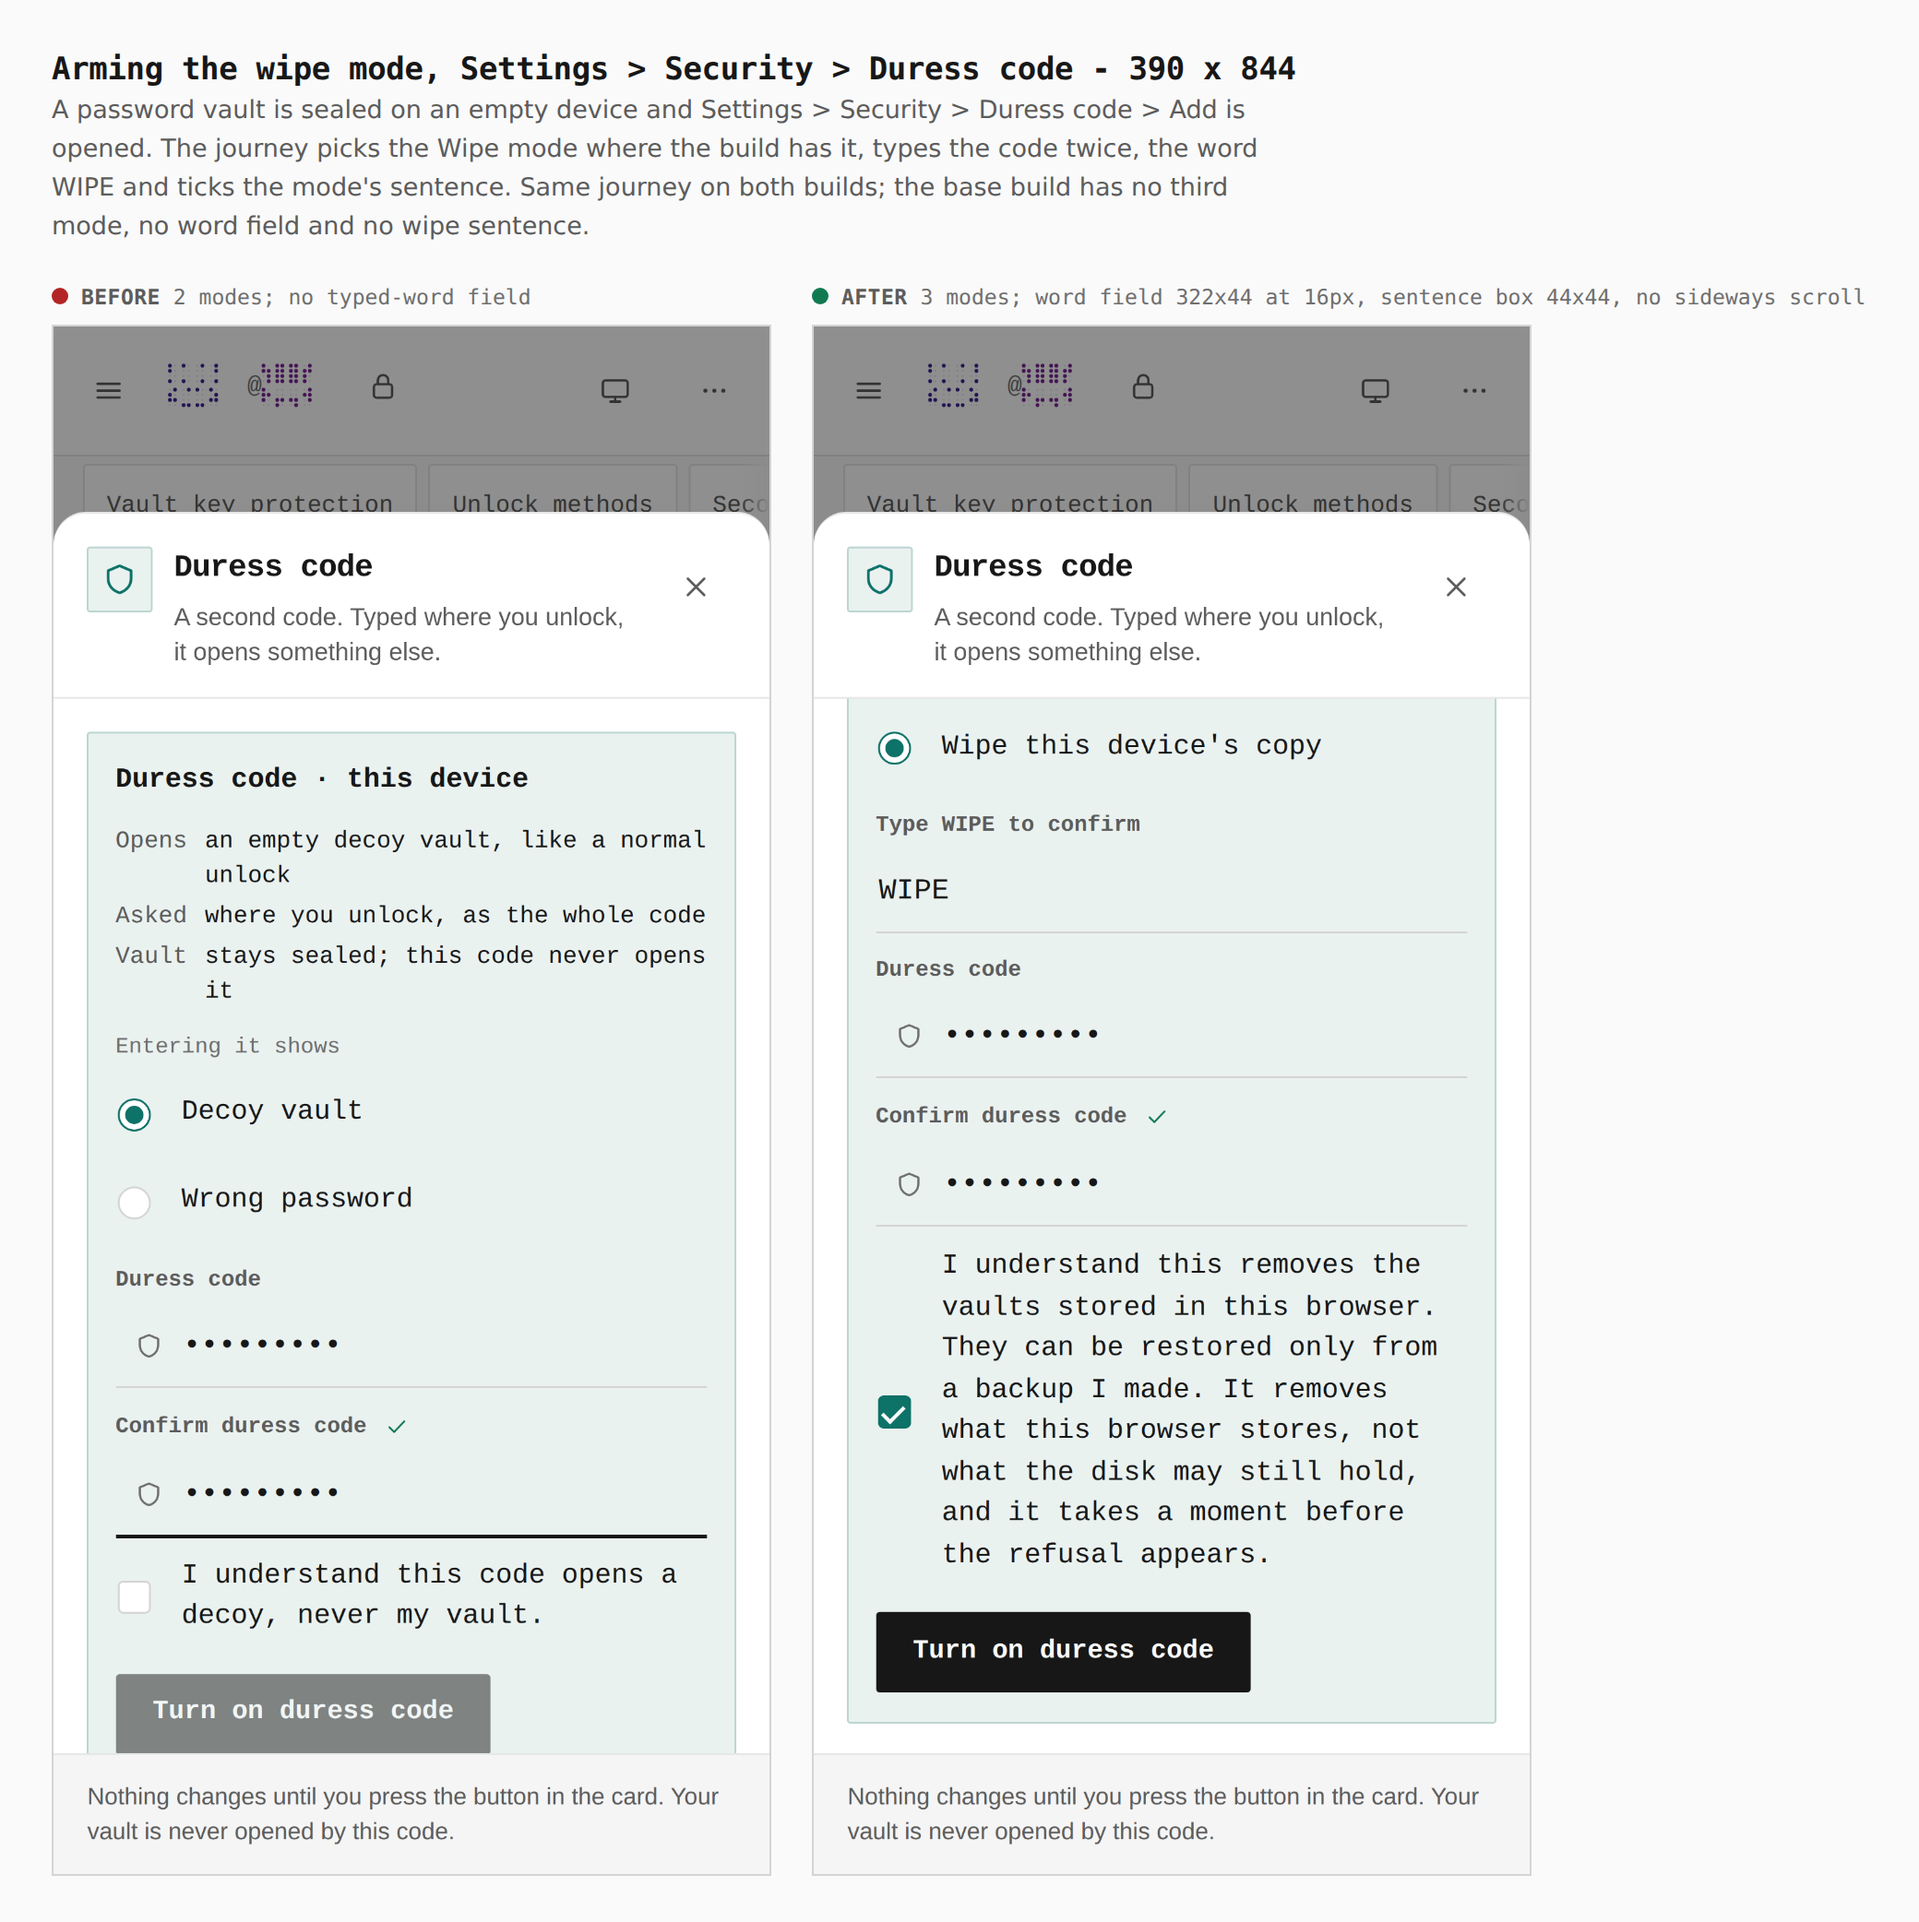
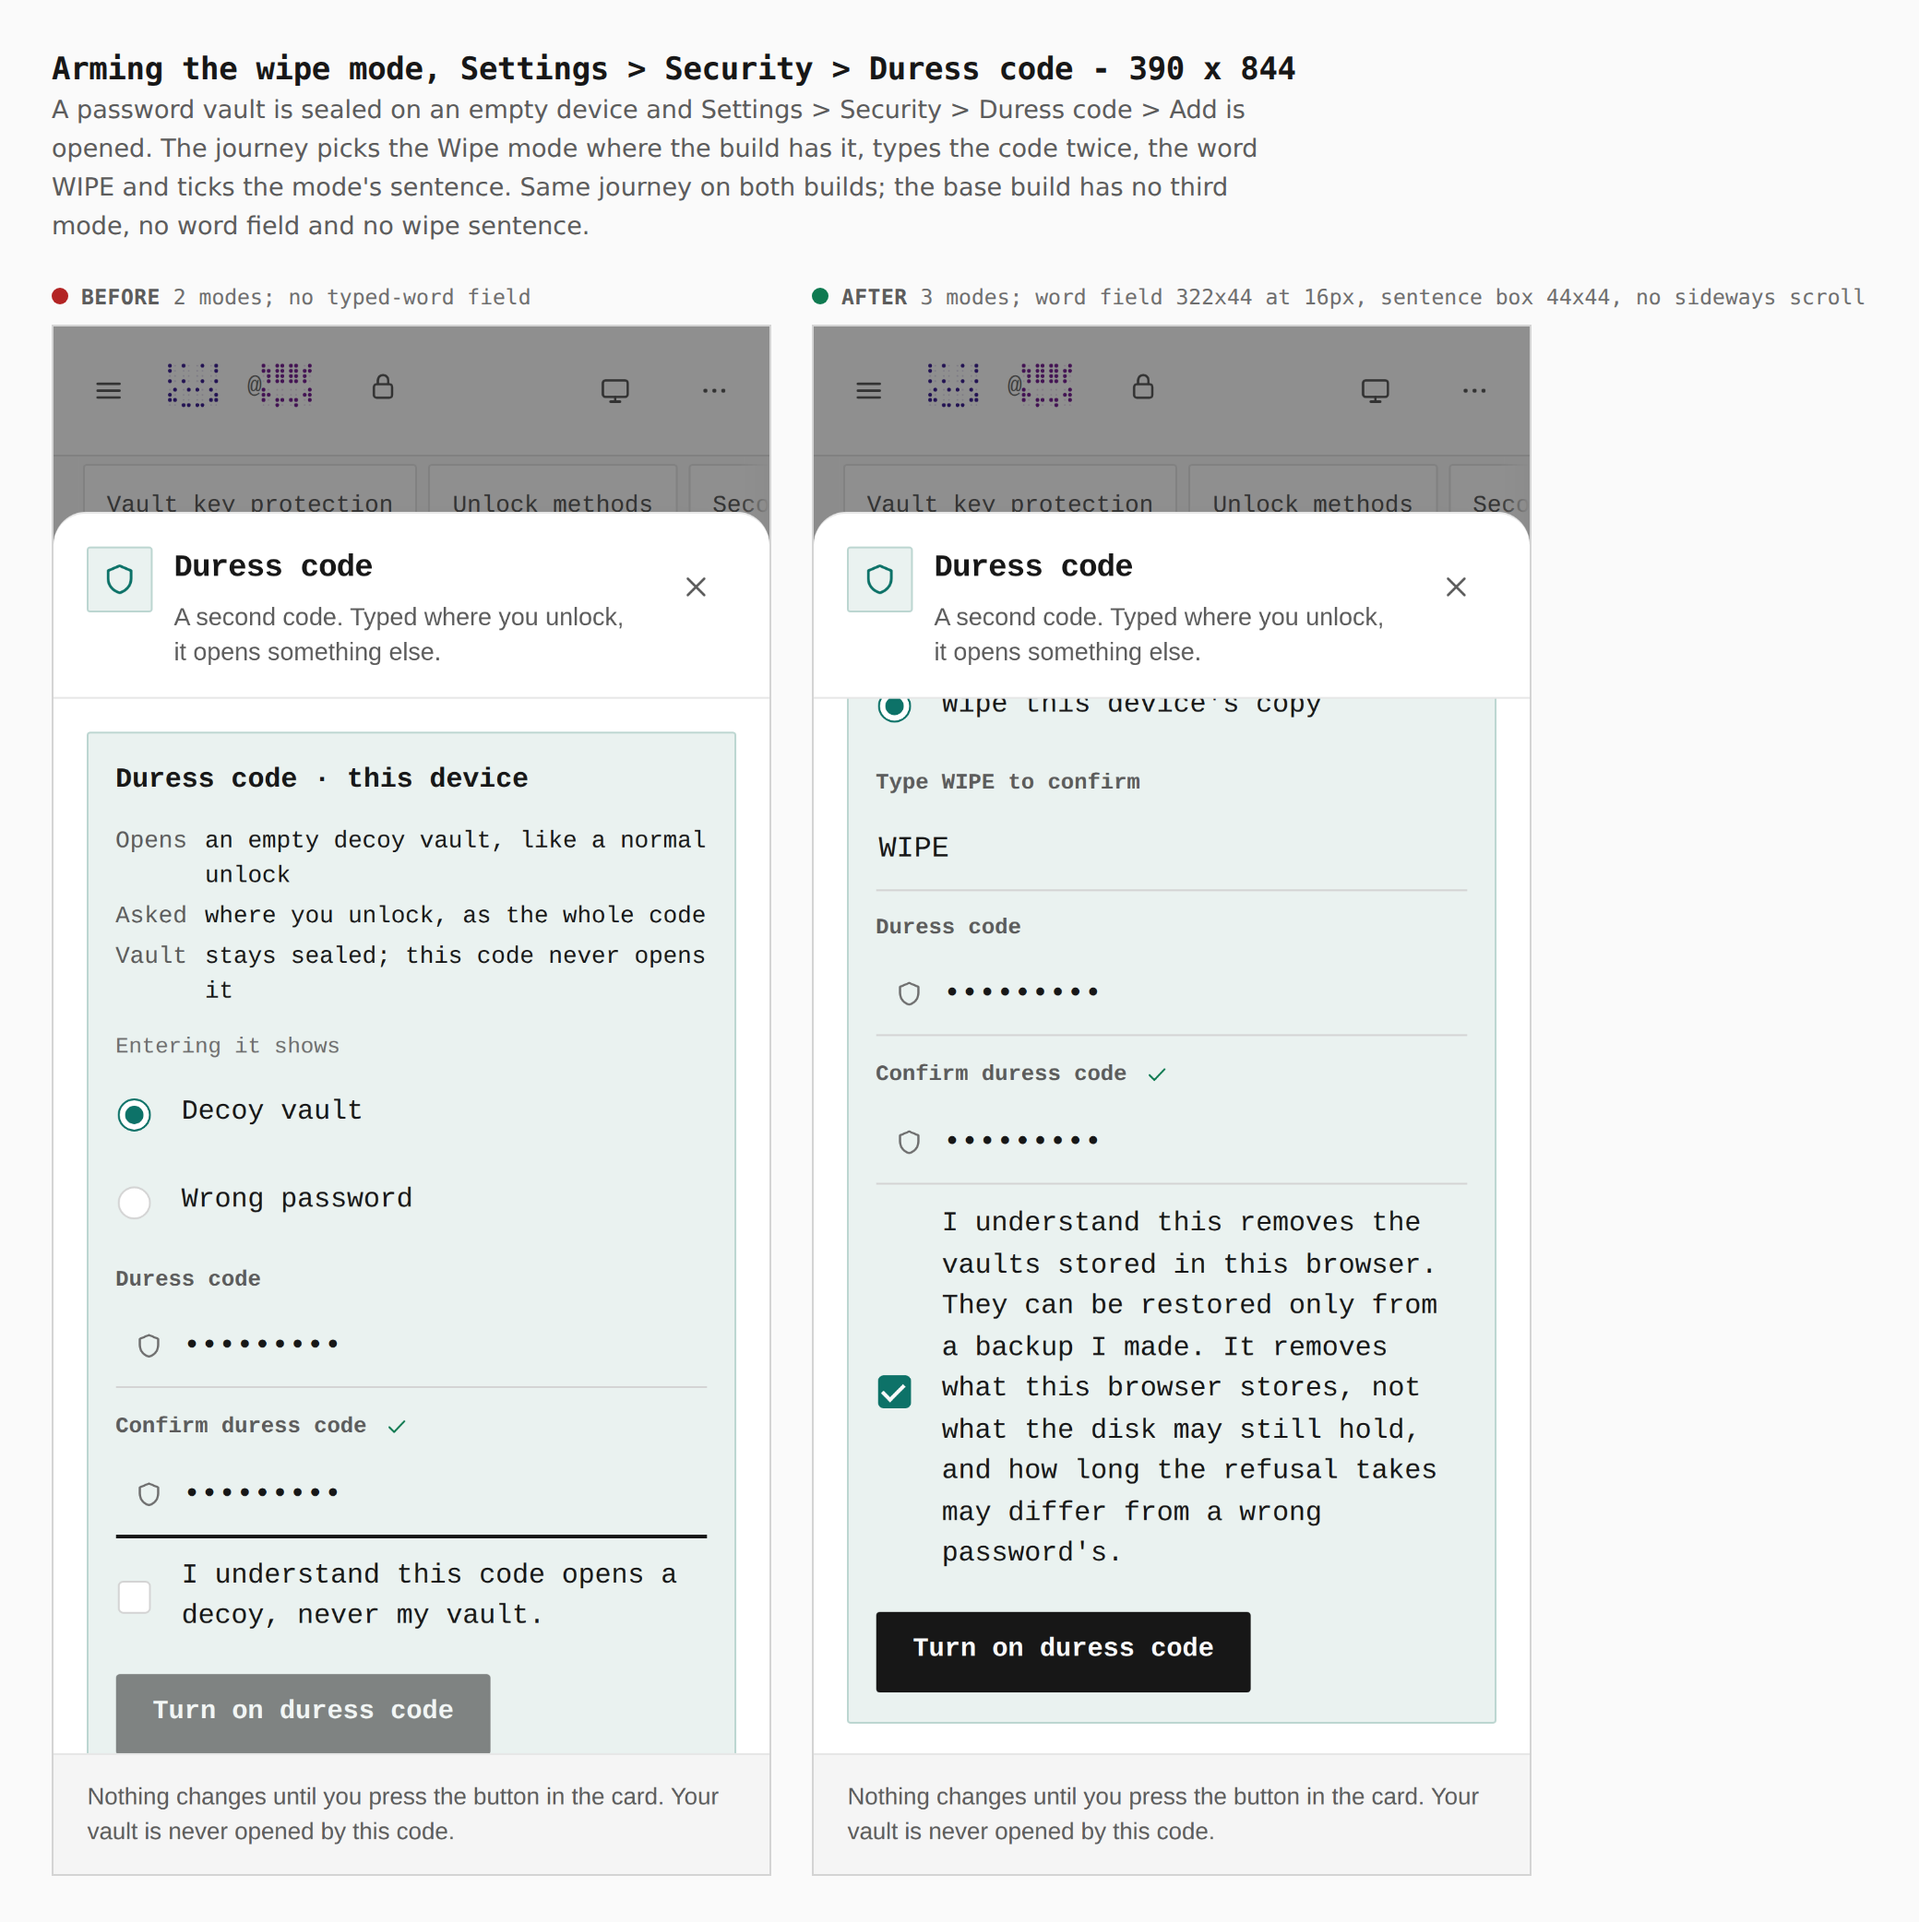
docs(evidence): re-capture the wipe sheet with the timing-neutral sentence; note recovery
Claude-Session: https://claude.ai/code/session_01TqbMJY8cahQhTFT6C53mqo

Changed region(s): [[0.4375, 0.3743, 0.75, 0.8109], [0.6562, 0.3431, 0.6875, 0.4055], [0.5625, 0.8421, 0.625, 0.8733]]

diff --git a/docs/evidence/2026-10-05-duress-mode-wipe/README.md b/docs/evidence/2026-10-05-duress-mode-wipe/README.md
@@ -52,12 +52,12 @@ the "stays sealed" the other modes show.
 
 ## What the pictures do not show, and what to read with them
 
-- **The refusal text differs on the password tab.** The last row is a finding,
-  not a success: an ordinary wrong password says "credential", while the
-  seam's locked refusal says "password" (`UNLOCK_PASSWORD_MISS`). That is the
-  seam's, not this mode's, and it applies to the existing Wrong password mode
-  too; the PIN tab's two texts are identical. The `J-DURESS-MODE-WIPE`
-  journey runs on a PIN vault and asserts the PIN refusals equal.
+- **The refusal text row is the base's, not this mode's.** On the password
+  tab the seam's locked refusal said "password" where an ordinary wrong
+  password says "credential"; that is a property of the seam the base was
+  captured at (the freeze mode fixed it separately), and the existing Wrong
+  password mode had it too. The PIN tab's two texts are identical, which is why
+  the `J-DURESS-MODE-WIPE` journey runs on a PIN vault and asserts them equal.
 - The cold-loaded "after" screen is Sign in because the device has answered
   setup; a device that had not would show the front door. It offers "Use
   without an account", not a guest button, as every vaultless device that has
@@ -66,5 +66,8 @@ the "stays sealed" the other modes show.
   run by `verify-experience-journeys.mjs`) also covers what a still picture
   cannot: a wipe the page dies in the middle of (headers gone, bodies still on
   disk, intent on disk, the next boot finishes it), the refusal staying on
-  screen while the vaults are removed, and the duress code still working
-  afterwards.
+  screen while the vaults are removed, the duress code still working
+  afterwards, and the owner's recovery: a new vault sealed on the held device,
+  the Duress row marked used, Clear lifting it, and a new code arming. The
+  restore of a backup made before the wipe is proved in
+  `packages/app-core/src/lib/duress/wipe/wipe-recovery.test.ts`.
